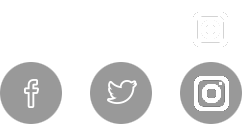
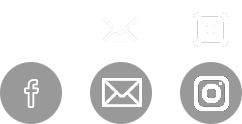
updated photos

Changed region(s): [[0.405, 0.629, 0.6074, 0.871]]

diff --git a/index.html b/index.html
@@ -23,7 +23,7 @@
 		<div>
 		<ul class="social">
 			<li class="facebook"><a href="https://www.instagram.com/nextlevelgrowthagency/"></li>
-			<li class="twitter"><a href="https://www.instagram.com/nextlevelgrowthagency/"></li>
+			<li class="twitter"><a href="mailto:contact@nextlevelgrowthagency.com"></li>
 			<li class="youtube"><a href="https://www.instagram.com/nextlevelgrowthagency/"></li>
 		</ul>
 		</div>
